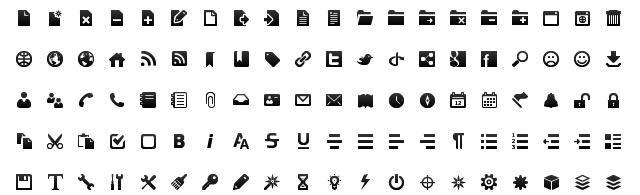
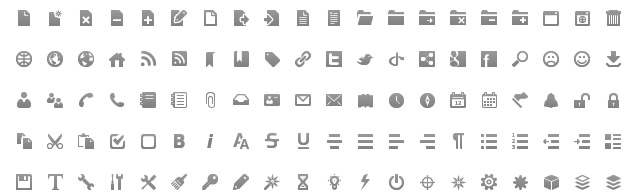
Use the webkit mask to show the idea

diff --git a/public/css/less.css b/public/css/less.css
@@ -8,7 +8,7 @@ body {
   padding: 5px;
 }
 .button:before {
-  background-image: url(../img/icons.png);
+  -webkit-mask: url(../img/icons.png);
   content: "";
   display: inline-block;
   height: 16px;
@@ -23,7 +23,8 @@ body {
   color: #676767;
 }
 .edit.button:before {
-  background-position: -141px -174px;
+  -webkit-mask-position: -141px -174px;
+  background-color: #676767;
 }
 .delete.button {
   background-color: #ff6666;
@@ -31,5 +32,6 @@ body {
   color: #cc0000;
 }
 .delete.button:before {
-  background-position: -606px -10px;
+  -webkit-mask-position: -606px -10px;
+  background-color: #cc0000;
 }

diff --git a/assets/sprite.less b/assets/sprite.less
@@ -8,7 +8,7 @@ body{
   padding:5px;
 
   &:before {
-    background-image: url(../img/icons.png);
+    -webkit-mask: url(../img/icons.png);
     content: "";
     display: inline-block;
     height: 16px;
@@ -24,7 +24,8 @@ body{
   color: darken(@color, 10%);
 
   &:before {
-    background-position: -@left -@top;
+    -webkit-mask-position: -@left -@top;
+    background-color: darken(@color, 10%);
   }
 }
 .edit.button {
